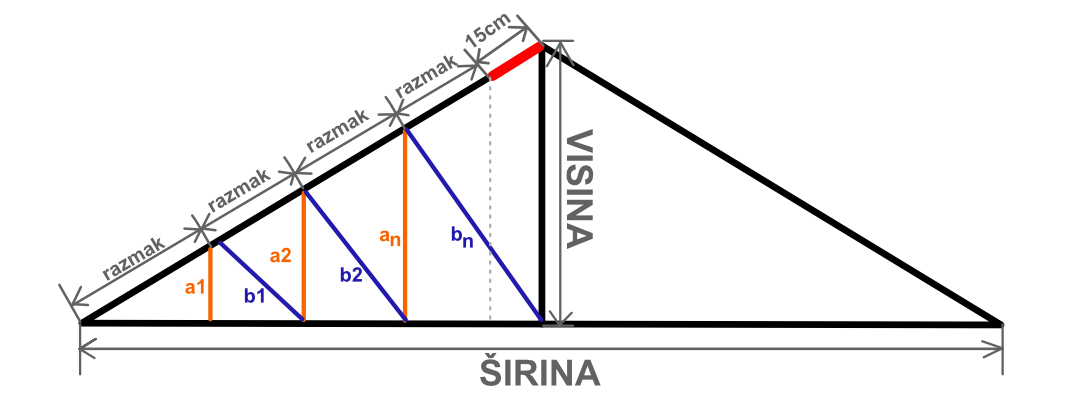
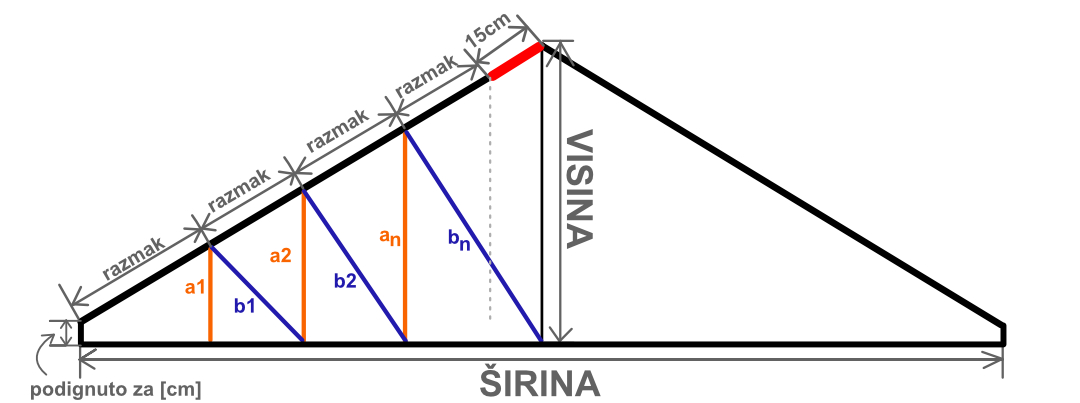
fix(binderi): finalized

diff --git a/components/Binderi/BinderiProvider.tsx b/components/Binderi/BinderiProvider.tsx
@@ -14,10 +14,15 @@ export const BinderiProvider: FC<Props> = ({ children }) => {
   const [calcSpace, setCalcSpace] = useState<number>(0);
   const [hypotenuse, setHypotenuse] = useState<number>(0);
   const [otherValues, setOtherValues] = useState<OtherValue>({});
+  const [podignutoZa, setPodignutoZa] = useState<number>(0);
+  const [lengthBoughtPipe, setLengthBoughtPipe] = useState<number>(0);
+  const [countBoldPipesToBuy, setCountBoldPipesToBuy] = useState<number>(0);
+  const [countThinPipesToBuy, setCountThinPipesToBuy] = useState<number>(0);
+  const [countBinders, setCountBinders] = useState<number>(1);
 
-  const calcHypotenuse = () => {
+  const calcHypotenuse = (actualHeight: number) => {
     const value = roundToTwo(
-      Math.sqrt(Math.pow(height, 2) + Math.pow(width / 2, 2))
+      Math.sqrt(Math.pow(actualHeight, 2) + Math.pow(width / 2, 2))
     );
     setHypotenuse(value);
 
@@ -69,9 +74,9 @@ export const BinderiProvider: FC<Props> = ({ children }) => {
     for (let i = 1; i <= countValue; i++) {
       let aKey = "a" + i;
       let bKey = "b" + i;
-      const a: number = Math.sqrt(
-        Math.pow(xSpaceValue * i, 2) - Math.pow(ySpaceValue * i, 2)
-      );
+      const a: number =
+        podignutoZa +
+        Math.sqrt(Math.pow(xSpaceValue * i, 2) - Math.pow(ySpaceValue * i, 2));
       const b: number =
         i === countValue
           ? Math.sqrt(Math.pow(ySpaceValue + z, 2) + Math.pow(a, 2))
@@ -84,8 +89,31 @@ export const BinderiProvider: FC<Props> = ({ children }) => {
     return values;
   };
 
+  const calcActualHeight = () => {
+    return height - podignutoZa;
+  };
+
+  const calcBoldPipes = (hypotenuseValue: number) => {
+    const value = roundToTwo(2 * podignutoZa + width + 2 * hypotenuseValue);
+    setBoldPipes(value);
+    setCountBoldPipesToBuy(Math.ceil(value / lengthBoughtPipe));
+  };
+
+  const calcThinPipes = (otherValuesValue: OtherValue) => {
+    const value =
+      roundToTwo(
+        otherValuesValue
+          ? 2 * Object.values(otherValuesValue).reduce((a, b) => a + b, 0)
+          : 0
+      ) + height;
+    setThinPipes(value);
+
+    setCountThinPipesToBuy(Math.ceil(value / lengthBoughtPipe));
+  };
+
   const calculate = async () => {
-    const hypotenuseValue = calcHypotenuse();
+    const actualHeight = calcActualHeight();
+    const hypotenuseValue = calcHypotenuse(actualHeight);
     const countValue = calcCount(hypotenuseValue);
     const xSpaceValue = calcSpaceValue(hypotenuseValue, countValue);
     const alphaAngle = calcAlphaAngle(hypotenuseValue);
@@ -99,14 +127,8 @@ export const BinderiProvider: FC<Props> = ({ children }) => {
       countValue
     );
 
-    setBoldPipes(roundToTwo(height + width + 2 * hypotenuseValue));
-    setThinPipes(
-      roundToTwo(
-        otherValuesValue
-          ? 2 * Object.values(otherValuesValue).reduce((a, b) => a + b, 0)
-          : 0
-      )
-    );
+    calcBoldPipes(hypotenuseValue);
+    calcThinPipes(otherValuesValue);
   };
 
   const resetValues = () => {
@@ -118,6 +140,11 @@ export const BinderiProvider: FC<Props> = ({ children }) => {
     setThinPipes(0);
     setBoldPipes(0);
     setCalcSpace(0);
+    setPodignutoZa(0);
+    setLengthBoughtPipe(0);
+    setCountThinPipesToBuy(0);
+    setCountBoldPipesToBuy(0);
+    setCountBinders(1);
   };
 
   return (
@@ -129,6 +156,14 @@ export const BinderiProvider: FC<Props> = ({ children }) => {
         setHeight,
         setWidth,
         otherValues,
+        podignutoZa,
+        setPodignutoZa,
+        lengthBoughtPipe,
+        setLengthBoughtPipe,
+        countThinPipesToBuy,
+        countBoldPipesToBuy,
+        countBinders,
+        setCountBinders,
         calculate,
         space,
         setSpace,

diff --git a/components/Binderi/ResultsBinderiComponent.tsx b/components/Binderi/ResultsBinderiComponent.tsx
@@ -3,8 +3,17 @@ import { useBinderiContext } from "../../hooks/useValuesContext";
 import Ionicons from "@expo/vector-icons/Ionicons";
 
 export const ResultsBinderiComponent = () => {
-  const { hypotenuse, calcSpace, otherValues, thinPipes, boldPipes } =
-    useBinderiContext();
+  const {
+    hypotenuse,
+    calcSpace,
+    otherValues,
+    thinPipes,
+    boldPipes,
+    lengthBoughtPipe,
+    countBoldPipesToBuy,
+    countThinPipesToBuy,
+    countBinders,
+  } = useBinderiContext();
   return (
     <View style={styles.container}>
       <View style={[styles.row, { alignItems: "center" }]}>
@@ -51,15 +60,50 @@ export const ResultsBinderiComponent = () => {
         </View>
       )}
 
-      <View
-        style={[styles.row, { justifyContent: "flex-start", marginTop: 20 }]}
-      >
+      <View style={{ marginTop: 20 }}>
+        <Text style={{ textDecorationLine: "underline" }}>Za 1 binder:</Text>
+      </View>
+      <View style={styles.row}>
         <Text>Ukupno dužina cevi za osnovu: </Text>
         <Text style={styles.bold}>{boldPipes} cm</Text>
       </View>
       <View style={[styles.row, { justifyContent: "flex-start" }]}>
         <Text>Ukupno dužina cevi za ispune: </Text>
         <Text style={styles.bold}>{thinPipes} cm</Text>
+      </View>
+      <View style={styles.row}>
+        <Text>Broj cevi za osnovu od {lengthBoughtPipe}cm: </Text>
+        <Text style={styles.bold}>{countBoldPipesToBuy} komada</Text>
+      </View>
+      <View style={styles.row}>
+        <Text>Broj cevi za ispune od {lengthBoughtPipe}cm: </Text>
+        <Text style={styles.bold}>{countThinPipesToBuy} komada</Text>
+      </View>
+
+      <View style={{ marginTop: 20 }}>
+        <Text style={{ textDecorationLine: "underline" }}>
+          Za {countBinders} bindera:
+        </Text>
+      </View>
+      <View style={styles.row}>
+        <Text>Ukupno dužina cevi za osnovu za {countBinders} bindera: </Text>
+        <Text style={styles.bold}>{boldPipes * countBinders} cm</Text>
+      </View>
+      <View style={[styles.row, { justifyContent: "flex-start" }]}>
+        <Text>Ukupno dužina cevi za ispune za {countBinders} bindera: </Text>
+        <Text style={styles.bold}>{thinPipes * countBinders} cm</Text>
+      </View>
+      <View style={styles.row}>
+        <Text>Broj cevi za osnovu od {lengthBoughtPipe}cm: </Text>
+        <Text style={styles.bold}>
+          {Math.ceil((boldPipes * countBinders) / lengthBoughtPipe)} komada
+        </Text>
+      </View>
+      <View style={styles.row}>
+        <Text>Broj cevi za ispune od {lengthBoughtPipe}cm: </Text>
+        <Text style={styles.bold}>
+          {Math.ceil((thinPipes * countBinders) / lengthBoughtPipe)} komada
+        </Text>
       </View>
     </View>
   );

diff --git a/components/Binderi/CalculatingBinderiComponent.tsx b/components/Binderi/CalculatingBinderiComponent.tsx
@@ -17,13 +17,19 @@ export const CalculatingBinderiComponent = () => {
     setSpace,
     calculate,
     resetValues,
+    podignutoZa,
+    setPodignutoZa,
+    lengthBoughtPipe,
+    setLengthBoughtPipe,
+    countBinders,
+    setCountBinders,
   } = useBinderiContext();
 
   const requireValue = require("../../assets/input-binderi-values.jpg");
 
   return (
     <KeyboardAvoidContainer>
-      <Header title={"parametri krova"} imageSrc={requireValue} />
+      <Header title={"parametri bindera"} imageSrc={requireValue} />
       <View style={styles.row}>
         <InputCell value={width} setValue={setWidth} label={"Širina [cm]"} />
         <InputCell value={height} setValue={setHeight} label={"Visina [cm]"} />
@@ -31,6 +37,25 @@ export const CalculatingBinderiComponent = () => {
           value={space}
           setValue={setSpace}
           label={"Željeni razmak [cm]"}
+        />
+      </View>
+      <View style={styles.row}>
+        <InputCell
+          value={podignutoZa}
+          setValue={setPodignutoZa}
+          label={"Podignuto za [cm]"}
+        />
+        <InputCell
+          value={lengthBoughtPipe}
+          setValue={setLengthBoughtPipe}
+          label={"Dužina kupljene cevi [cm]"}
+        />
+      </View>
+      <View style={styles.row}>
+        <InputCell
+          value={countBinders}
+          setValue={setCountBinders}
+          label={"Binderi [komada]"}
         />
       </View>
       <CalculateButton title={"Izračunaj"} onPress={calculate} />

diff --git a/common/BinderiContext.ts b/common/BinderiContext.ts
@@ -13,6 +13,14 @@ interface ValuesContextProps {
   boldPipes: number;
   thinPipes: number;
   otherValues?: OtherValue;
+  podignutoZa: number;
+  setPodignutoZa: (value: number) => void;
+  lengthBoughtPipe: number;
+  setLengthBoughtPipe: (value: number) => void;
+  countBoldPipesToBuy: number;
+  countThinPipesToBuy: number;
+  countBinders: number;
+  setCountBinders: (value: number) => void;
   setHeight: (height: number) => void;
   setWidth: (width: number) => void;
   calculate: () => void;
@@ -28,11 +36,17 @@ export const BinderiContext = createContext(<ValuesContextProps>{
   calcSpace: 0,
   boldPipes: 0,
   thinPipes: 0,
+  podignutoZa: 0,
+  lengthBoughtPipe: 0,
+  countBoldPipesToBuy: 0,
+  countThinPipesToBuy: 0,
+  countBinders: 1,
+  setCountBinders: () => {},
+  setLengthBoughtPipe: () => {},
+  setPodignutoZa: () => {},
   setHeight: () => {},
   setWidth: () => {},
   calculate: () => {},
   setSpace: () => {},
   resetValues: () => {},
-
-  //setHypotenuse: () => {},
 });
